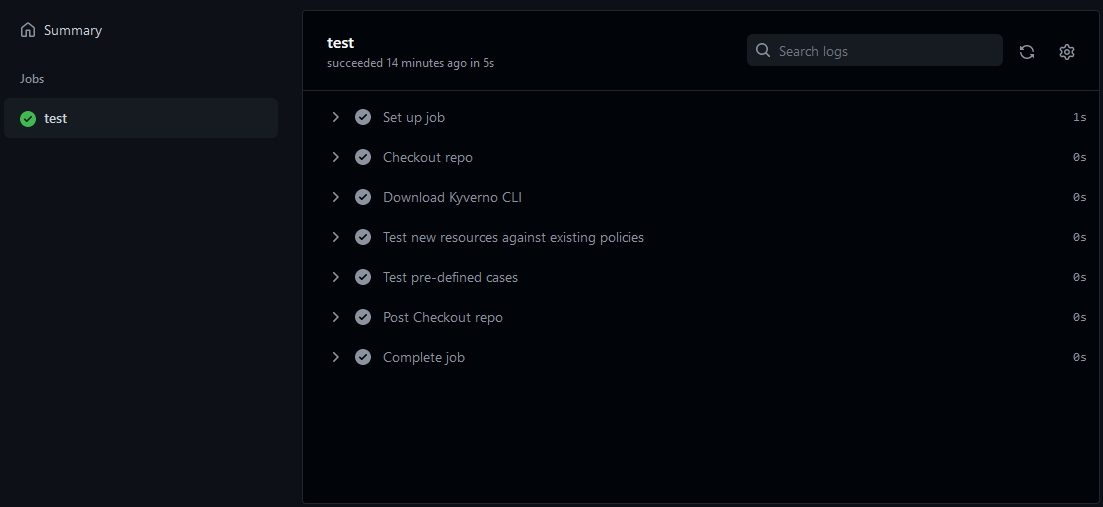
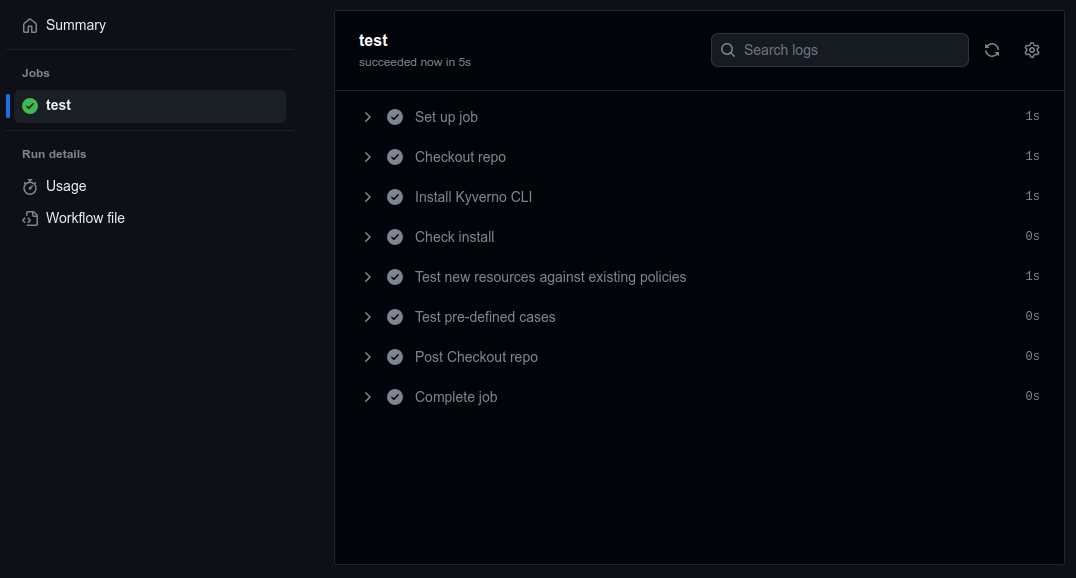
enhancement: reference kyverno cli github action (#975)
* enhancement: reference kyverno cli github action

* edit workflow yaml

* modify

* add images

* edit yaml

* edit text

* use folder path for images instead of image URLs

* update release version

---------

diff --git a/content/en/docs/Testing Policies/_index.md b/content/en/docs/Testing Policies/_index.md
@@ -50,32 +50,34 @@ The following is an example of a simple GitHub Actions workflow which may be use
 The repository contains Kyverno policies stored in `policies/`, Kubernetes resource manifests stored in `resources/` and complete Kyverno test cases stored in `tests/`. A sample workflow may be added at the path `.github/workflows/kyverno.yaml` with the below contents which performs the following for both opened pull requests and manually if triggered on the repository.
 
 1. The repository is checked out.
-2. The Kyverno CLI is downloaded by naming a specific version. This can be changed to simulate the effect a Kyverno upgrade may have in a cluster.
-3. Tests the unknown manifests in `resources/` against the known policies stored in `policies/`.
-4. Tests the pre-defined test cases stored in `tests/` which contain Kyverno test manifests, policies, and resources separated by folder.
+2. The GitHub action for Kyverno CLI is downloaded by naming a specific version. This can be changed to simulate the effect a Kyverno upgrade may have in a cluster. Please refer to [kyverno-cli-installer](https://github.com/marketplace/actions/kyverno-cli-installer) for more information on the GitHub action for Kyverno CLI.
+3. Check the Kyverno CLI version
+4. Tests the unknown manifests in `resources/` against the known policies stored in `policies/`.
+5. Tests the pre-defined test cases stored in `tests/` which contain Kyverno test manifests, policies, and resources separated by folder.
 
 ```yaml
 name: kyverno-policy-test
 on:
   - pull_request
   - workflow_dispatch
-env:
-  VERSION: v1.7.2
 jobs:
   test:
     runs-on: ubuntu-latest
+    permissions:
+      contents: read
     steps:
       - name: Checkout repo
-        uses: actions/checkout@v3
-      - name: Download Kyverno CLI
-        run: |
-          curl -sLO https://github.com/kyverno/kyverno/releases/download/${{ env.VERSION }}/kyverno-cli_${{ env.VERSION }}_linux_x86_64.tar.gz
-          tar -xf kyverno-cli_${{ env.VERSION }}_linux_x86_64.tar.gz
-          ./kyverno version
+        uses: actions/checkout@v4
+      - name: Install Kyverno CLI
+        uses: kyverno/action-install-cli@v0.2.0
+        with:
+          release: 'v1.11.0'
+      - name: Check install
+        run: kyverno version
       - name: Test new resources against existing policies
-        run: ./kyverno apply policies/ -r resources/
+        run: kyverno apply policies/ -r resources/
       - name: Test pre-defined cases
-        run: ./kyverno test tests/
+        run: kyverno test tests/
 ```
 
 Upon pull request to the repository containing this file, the GitHub Actions workflow will be triggered. If all tests succeed, the output will show a success for all steps.

diff --git a/content/en/docs/Kyverno CLI/_index.md b/content/en/docs/Kyverno CLI/_index.md
@@ -37,6 +37,10 @@ The Kyverno CLI can also be installed with [Homebrew](https://brew.sh/) as a [fo
 brew install kyverno
 ```
 
+### Install in GitHub Actions
+
+The Kyverno CLI can be installed in GitHub Actions using [kyverno-cli-installer](https://github.com/marketplace/actions/kyverno-cli-installer) from the GitHub Marketplace. Please refer to [kyverno-cli-installer](https://github.com/marketplace/actions/kyverno-cli-installer) for more information.
+
 ### Manual Binary Installation
 
 The Kyverno CLI may also be installed by manually downloading the compiled binary available on the [releases page](https://github.com/kyverno/kyverno/releases). An example of installing the Kyverno CLI v1.10.0 on a Linux x86_64 system is shown below.
